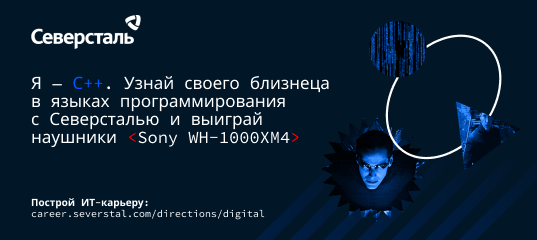
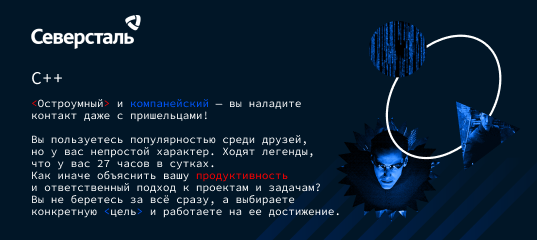
change share pics + final screen

Changed region(s): [[0.0596, 0.4083, 0.8343, 0.9333], [0.0596, 0.2917, 0.6257, 0.3792]]

diff --git a/src/components/screens/Final.jsx b/src/components/screens/Final.jsx
@@ -90,7 +90,7 @@ const ResultTitleWrapper = styled(FlexWrapper)`
 
 const ResultImageWrapper = styled.div`
     position: relative;
-    margin-bottom: 4.5vh;
+    margin-bottom: 3.2vh;
     
     @media screen and (min-width: 640px){
         width: 410px;
@@ -170,42 +170,32 @@ const DescriptionWrapper = styled.div`
 
 const ShareBtn = styled(FlexWrapper)`
     justify-content: center;
-    border-radius: 50%;
-    height: 50px;
-    width: 50px;
-    min-width: 50px;
+    border-radius: 18px;
+    height: 32px;
+    padding: 0 10px;
+    width: fit-content;
     background: #FF0000;
     cursor: pointer;
-    
-    @media screen and (max-width: 320px){
-      height: 40px;
-      width: 40px;
-      min-width: 40px;
-    } 
+    margin-bottom: 10px;
     
     @media screen and (min-width: 640px){
-      height: 54px;
-      width: 54px;
-      min-width: 54px;
+      height: 45px;
+      border-radius: 20px;
     }
 `;
 
 const VKIconStyled = styled(VKIcon)`
-    width: 32px;
-    height: 32px;
-    
-    @media screen and (max-width: 320px){
-      height: 22px;
-      width: 22px;
-    }
+    width: 20px;
+    height: 20px;
+    margin-right: 15px;
     
     @media screen and (min-width: 640px){
-      height: 37px;
-      width: 37px;
+      height: 35px;
+      width: 35px;
     }
 `;
 
-const ShareWrapper = styled(FlexWrapper)`
+const ShareWrapper = styled.div`
     margin-top: auto;
     
     @media screen and (min-width: 900px) and (orientation: landscape){
@@ -215,13 +205,12 @@ const ShareWrapper = styled(FlexWrapper)`
 `;
 
 const ShareTextStyled = styled(ShareText)`
-    margin-left: 19px;
-    max-width: 205px;
-    
-    @media screen and (min-width: 640px){
-      max-width: 433px;
-    }
-    
+    //max-width: 205px;
+    //
+    //@media screen and (min-width: 640px){
+    //  max-width: 433px;
+    //}
+    //
 `;
 
 export const Final = () => {
@@ -253,6 +242,7 @@ export const Final = () => {
             <ShareWrapper>
                 <ShareBtn onClick={onShare}>
                     <VKIconStyled/>
+                    <Text>Поделиться и выиграть приз</Text>
                 </ShareBtn>
                 <ShareTextStyled>
                     Репостни результат
